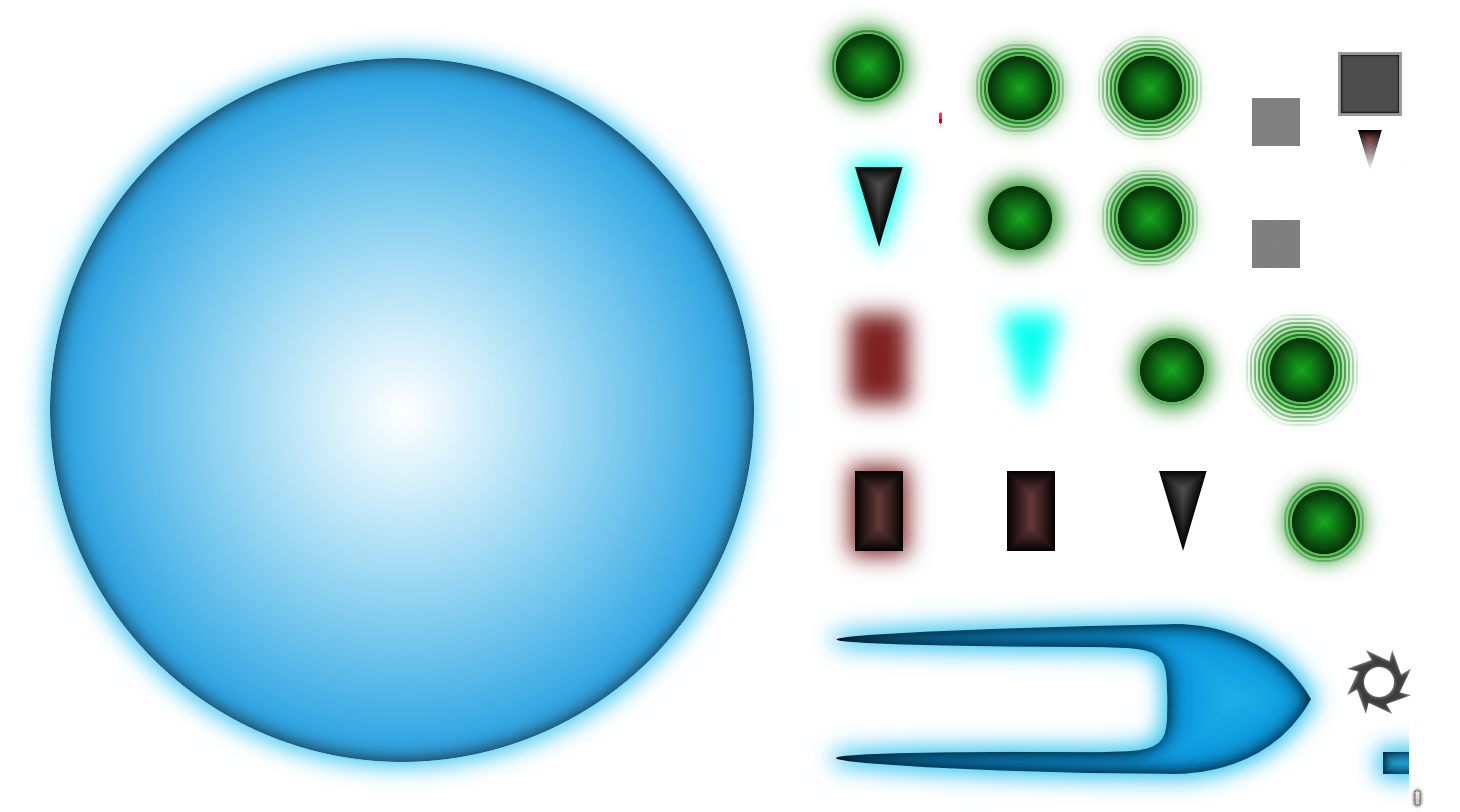
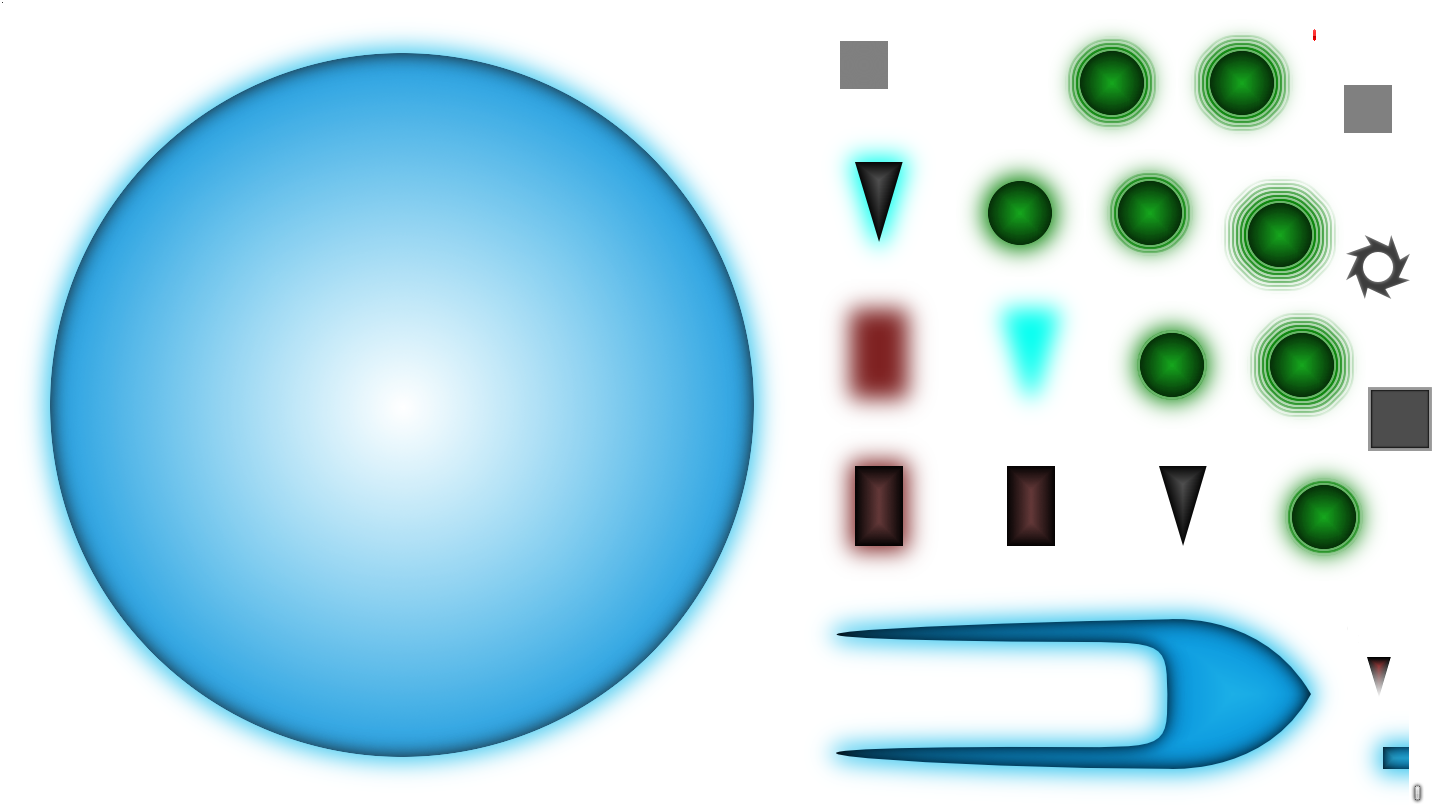
skill cooldown and ui stuff

diff --git a/core/src/de/dakror/burst/game/entity/creature/Creature.java b/core/src/de/dakror/burst/game/entity/creature/Creature.java
@@ -6,6 +6,8 @@ import com.badlogic.gdx.math.Rectangle;
 import com.badlogic.gdx.math.Vector2;
 import com.badlogic.gdx.scenes.scene2d.InputEvent;
 import com.badlogic.gdx.scenes.scene2d.InputListener;
+import com.badlogic.gdx.utils.IntFloatMap;
+import com.badlogic.gdx.utils.IntFloatMap.Keys;
 
 import de.dakror.burst.Burst;
 import de.dakror.burst.game.Game;
@@ -33,6 +35,8 @@ public abstract class Creature extends Entity
 	protected Skill activeSkill;
 	protected boolean showHpBar;
 	
+	IntFloatMap cooldowns;
+	
 	public Creature(float x, float y)
 	{
 		super(x, y);
@@ -43,6 +47,8 @@ public abstract class Creature extends Entity
 		attackDamage = 1;
 		attackTime = 0.75f;
 		attackRange = 20;
+		
+		cooldowns = new IntFloatMap();
 		
 		addListener(new InputListener()
 		{
@@ -74,6 +80,13 @@ public abstract class Creature extends Entity
 		super.act(delta);
 		
 		if (getActions().size == 0) activeSkill = null;
+		
+		for (Keys k = cooldowns.keys(); k.hasNext();)
+		{
+			int i = k.next();
+			cooldowns.getAndIncrement(i, 0, -delta);
+			if (cooldowns.get(i, 0) <= 0) k.remove();
+		}
 		
 		if (attack.len() > 0)
 		{
@@ -194,11 +207,16 @@ public abstract class Creature extends Entity
 		Game.particles.add("death.p", getX() + 75, getY() + 75);
 	}
 	
-	protected void setSkill(Skill skill, Creature target)
+	protected boolean setSkill(Skill skill, Creature target)
 	{
+		if (cooldowns.containsKey(skill.ordinal())) return false;
+		
 		activeSkill = skill;
 		
 		addAction(activeSkill.getSequence(this, target));
+		cooldowns.put(skill.ordinal(), skill.getCooldown());
+		
+		return true;
 	}
 	
 	public float getAttackRange()
@@ -256,6 +274,16 @@ public abstract class Creature extends Entity
 		attacked = false;
 		
 		nextAttackAmpl = ampl;
+	}
+	
+	public IntFloatMap getCooldowns()
+	{
+		return cooldowns;
+	}
+	
+	public float getCooldown(int key)
+	{
+		return cooldowns.get(key, 0);
 	}
 	
 	// -- statics -- //

diff --git a/core/src/de/dakror/burst/ui/SkillSlot.java b/core/src/de/dakror/burst/ui/SkillSlot.java
@@ -27,6 +27,9 @@ public class SkillSlot extends Button
 	final Color c = new Color(1, 1, 1, 1);
 	float delta;
 	
+	boolean wasntZeroBefore, showAnim;
+	float alpha;
+	
 	static NinePatch bg_fg, bg_bg;
 	
 	public SkillSlot(Skill skill)
@@ -61,6 +64,13 @@ public class SkillSlot extends Button
 	public void act(float delta)
 	{
 		super.act(delta);
+		
+		if (showAnim)
+		{
+			alpha += delta * 20;
+			if (alpha > 9) showAnim = false;
+		}
+		
 		if (isOver()) this.delta += delta;
 		else this.delta = 0;
 	}
@@ -82,6 +92,32 @@ public class SkillSlot extends Button
 			bg_bg.draw(batch, x - 40, y - tb.height - 40, width + 80, tb.height + 80);
 			bg_fg.draw(batch, x - 40, y - tb.height - 40, width + 80, tb.height + 80);
 			font.drawWrapped(batch, str, x, y, width);
+		}
+		
+		float cooldown = Game.player.getCooldown(skill.ordinal());
+		if (cooldown > 0)
+		{
+			TextureRegion r = Burst.img.findRegion("grey");
+			batch.draw(r, getX(), getY(), getWidth(), getHeight() * (cooldown / skill.getCooldown()));
+			
+			wasntZeroBefore = true;
+		}
+		else
+		{
+			if (wasntZeroBefore && !showAnim)
+			{
+				showAnim = true;
+				wasntZeroBefore = false;
+				alpha = 0;
+			}
+			
+			if (showAnim)
+			{
+				TextureRegion r = Burst.img.findRegion("square");
+				batch.setColor(1, 1, 1, (float) Math.cos(alpha) * 0.5f + 0.5f);
+				batch.draw(r, getX(), getY(), getWidth(), getHeight());
+				batch.setColor(1, 1, 1, 1);
+			}
 		}
 	}
 }

diff --git a/core/src/de/dakror/burst/layer/HudLayer.java b/core/src/de/dakror/burst/layer/HudLayer.java
@@ -58,7 +58,7 @@ public class HudLayer extends Layer
 		stage.draw();
 		stage.getBatch().begin();
 		
-		if (Game.player.selectedSkill != null)
+		if (Game.player.selectedSkill != null && Game.player.getCooldown(Game.player.selectedSkill.ordinal()) == 0)
 		{
 			stage.getBatch().setColor(1, 1, 1, 0.5f);
 			if (Game.player.selectedSkill.getType() == SkillType.Targeted || Game.player.selectedSkill.getType() == SkillType.Aura)
